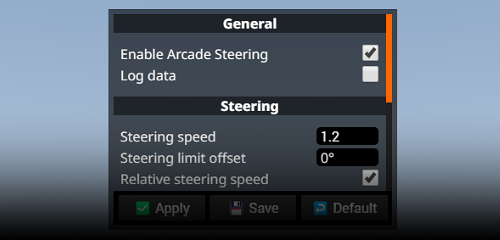
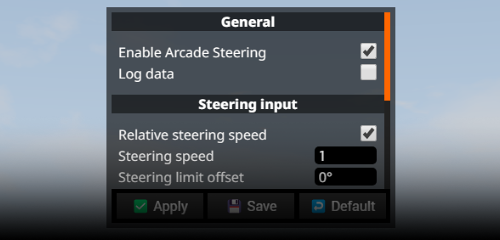
my back

Changed region(s): [[0.0, 0.0, 1.0, 0.9042], [0.0, 0.0292, 0.18, 0.2917], [0.0, 0.3792, 0.03, 0.525]]

diff --git a/ConfigGuide.md b/ConfigGuide.md
@@ -3,7 +3,7 @@
 The default settings should be fine for most people, so you can just enjoy the mod without changing anything.
 But if you want to fine tune the steering feel, you can do so in the included UI app. This page explains all the settings in the UI app.
 
-![UI App](https://i.imgur.com/9QktZO0.png)
+![UI App](https://i.imgur.com/QhVAyzl.png)
 
 # General
 
@@ -22,38 +22,49 @@ You can bring up the console with the <kbd>~</kbd> key.
 
 I suggest enabling force-scrolling with the <kbd>⤓</kbd> button in the top left of the console if you're using this.
 
-# Steering
-Settings related to regular steering input.
+# Steering input
+Settings related to steering input from the player.
+
+### Relative steering speed
+
+If enabled, the [Steering speed](#steering-speed) setting is applied to the steering wheel itself. This means that parts like quick ratio steering racks will change the rate of steering down at the wheels, and vehicles with more steering wheel rotation will have a slower steering feel as a result (like trucks or buses). The default input system also does this for added realism.
+
+If disabled, the [Steering speed](#steering-speed) setting is applied to the steered wheels on the ground instead of the steering wheel. This means that parts like quick ratio steering racks will NOT change the rate of steering down at the wheels, they will only make the steering wheel rotate faster or slower.
+
+___
 
 ### Steering speed
 > Range: `0.0` - `10.0`
 
 How fast the steering is.
 
-When using the ***Key (smooth)*** input filter, this setting is reduced internally to 75% of its value.
+When using the ***Key (smooth)*** input filter, this setting is reduced internally to 70% of its value.
 
 ![SteeringSpeed](https://i.imgur.com/oYO88Cq.gif)
 
 ___
 
 ### Steering limit offset
-> Range: `-5.0` - `5.0` degrees
+> Range: `-5.0` - `+5.0` degrees
 
-Changes the steering angle cap. For example a value of `2.0` would let you steer 2° more than normal.
+Changes the steering angle cap for turning inward. For example a value of `2.0` would let you steer 2° more than normal.
 
 The default cap (`0.0`) is already very accurate with keeping the steered wheels near their peak grip in a turn, so I don't see a need to change this. I only left this setting here just in case someone runs into a weird edge case. You can ignore this basically.
 
 ___
 
-### Relative steering speed
+### Countersteer limit offset
+> Range: `0.0` - `+10.0` degrees
 
-If enabled, the steering speed will be adjusted to each vehicle's max steering wheel rotation. This means that parts like quick ratio steering racks will change the effective steering speed at the wheels, and vehicles that have more steering wheel rotation will have slower steering as a result (like trucks or buses). The default input system also does this.
+Changes the steering angle cap for countersteering. This only applies to manual countersteer input, not the automatic countersteer assist.
 
-If disabled, all vehicles will have a similar-ish steering speed at the wheels. This means that parts like quick ratio steering racks will NOT change the effective steering speed at the wheels.
+This cap is relative to the angle of the slide. For example if the car is in a 20° slide, a value of `0.0` would let you countersteer up to 20° while a value of `5.0` would let you countersteer up to 25°.
+
+Higher values make countersteering more responsive and vice versa.
 
 ___
 
-# Countersteer force
+# Countersteer assist
 These settings affect how the car's natural countersteer tendency behaves. Manual countersteering is not affected by these.
 
 
@@ -108,7 +119,7 @@ Think of a lower setting like having a looser grip on the steering wheel and let
 
 The difference this setting makes depends on the [Response](#response) and [Max angle](#max-angle) settings. The stronger you make the car's countersteer force, the more difference you'll notice when you allow it to resist your input.
 
-When using the ***Key (smooth)*** input filter, this setting is reduced internally to 75% of its value.
+When using the ***Key (smooth)*** input filter, this setting is reduced internally to 70% of its value.
 
 In the GIF below, the car starts to gently oversteer after the turn begins. Low input authority allows the car to correct the slide to an extent despite the player fully turning inwards.
 

diff --git a/README.md b/README.md
@@ -1,5 +1,5 @@
 # BeamNG.drive: Arcade Steering
-![Version](https://img.shields.io/badge/Version-2.3.1-blue.svg) ![Compatibility](https://img.shields.io/badge/Game_compatibility-v27.2.0-green.svg)
+![Version](https://img.shields.io/badge/Version-2.4-blue.svg) ![Compatibility](https://img.shields.io/badge/Game_compatibility-v27.2.0-green.svg)
 
 ## Intro 🖊
 
@@ -32,7 +32,7 @@ Go to ***Options*** ➡ ***Controls*** ➡ ***Bindings*** ➡ ***Vehicle***, and
 
 The mod will not do anything if you use the ***Wheel (direct)*** filter, as it's only meant for keyboard and controller. But for steering input specifically, it does modify the behavior of the other filter types.
 
-The ***Key (smooth)*** filter will lower the [Steering speed](ConfigGuide.md#steering-speed) and [Input authority](ConfigGuide.md#input-authority) settings to 75% of their original value when you drive. This gives a smoother feel that's easier to control on keyboard. The ***Key (fast)*** and ***Gamepad*** filters are identical, and both use the config values as-is.
+The ***Key (smooth)*** filter will lower the [Steering speed](ConfigGuide.md#steering-speed) and [Input authority](ConfigGuide.md#input-authority) settings to 70% of their original value when you drive. This gives a smoother feel that's easier to control on keyboard. The ***Key (fast)*** and ***Gamepad*** filters are identical, and both use the config values as-is.
 
 Any steering-related option in the game such as ***Understeer reduction assistant***, ***Oversteer reduction assistant***, ***Slower steering at high speed*** or ***Limit steering at high speed*** will not work as long as you're driving with this mod enabled. This is because the mod completely bypasses the default steering system and uses its own logic for everything.
 
